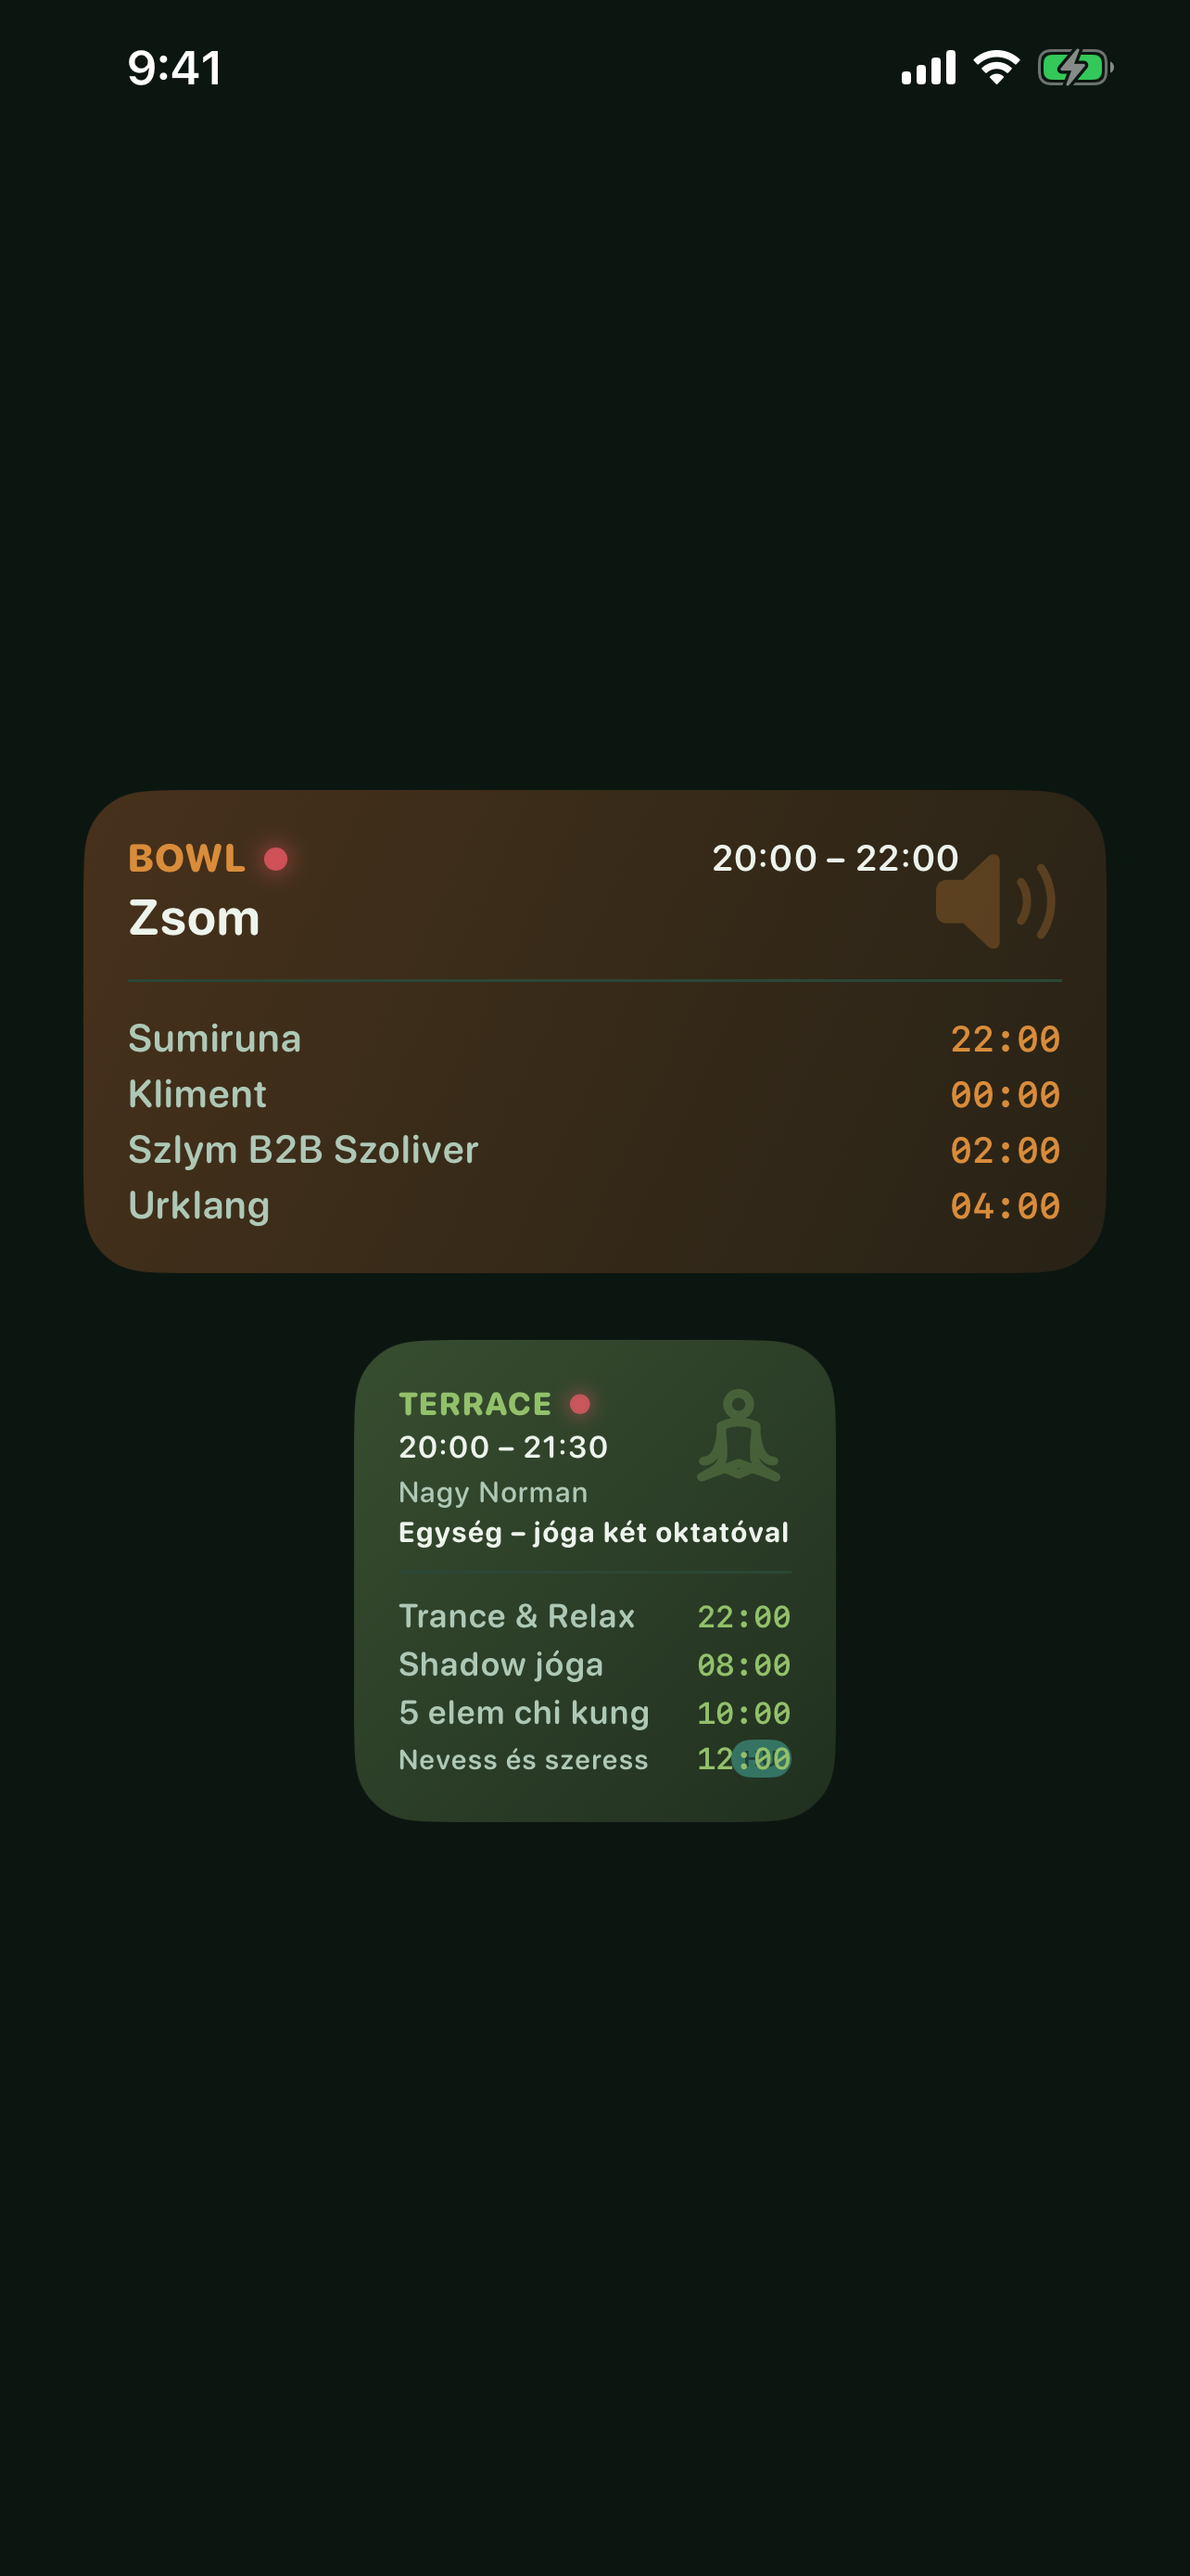
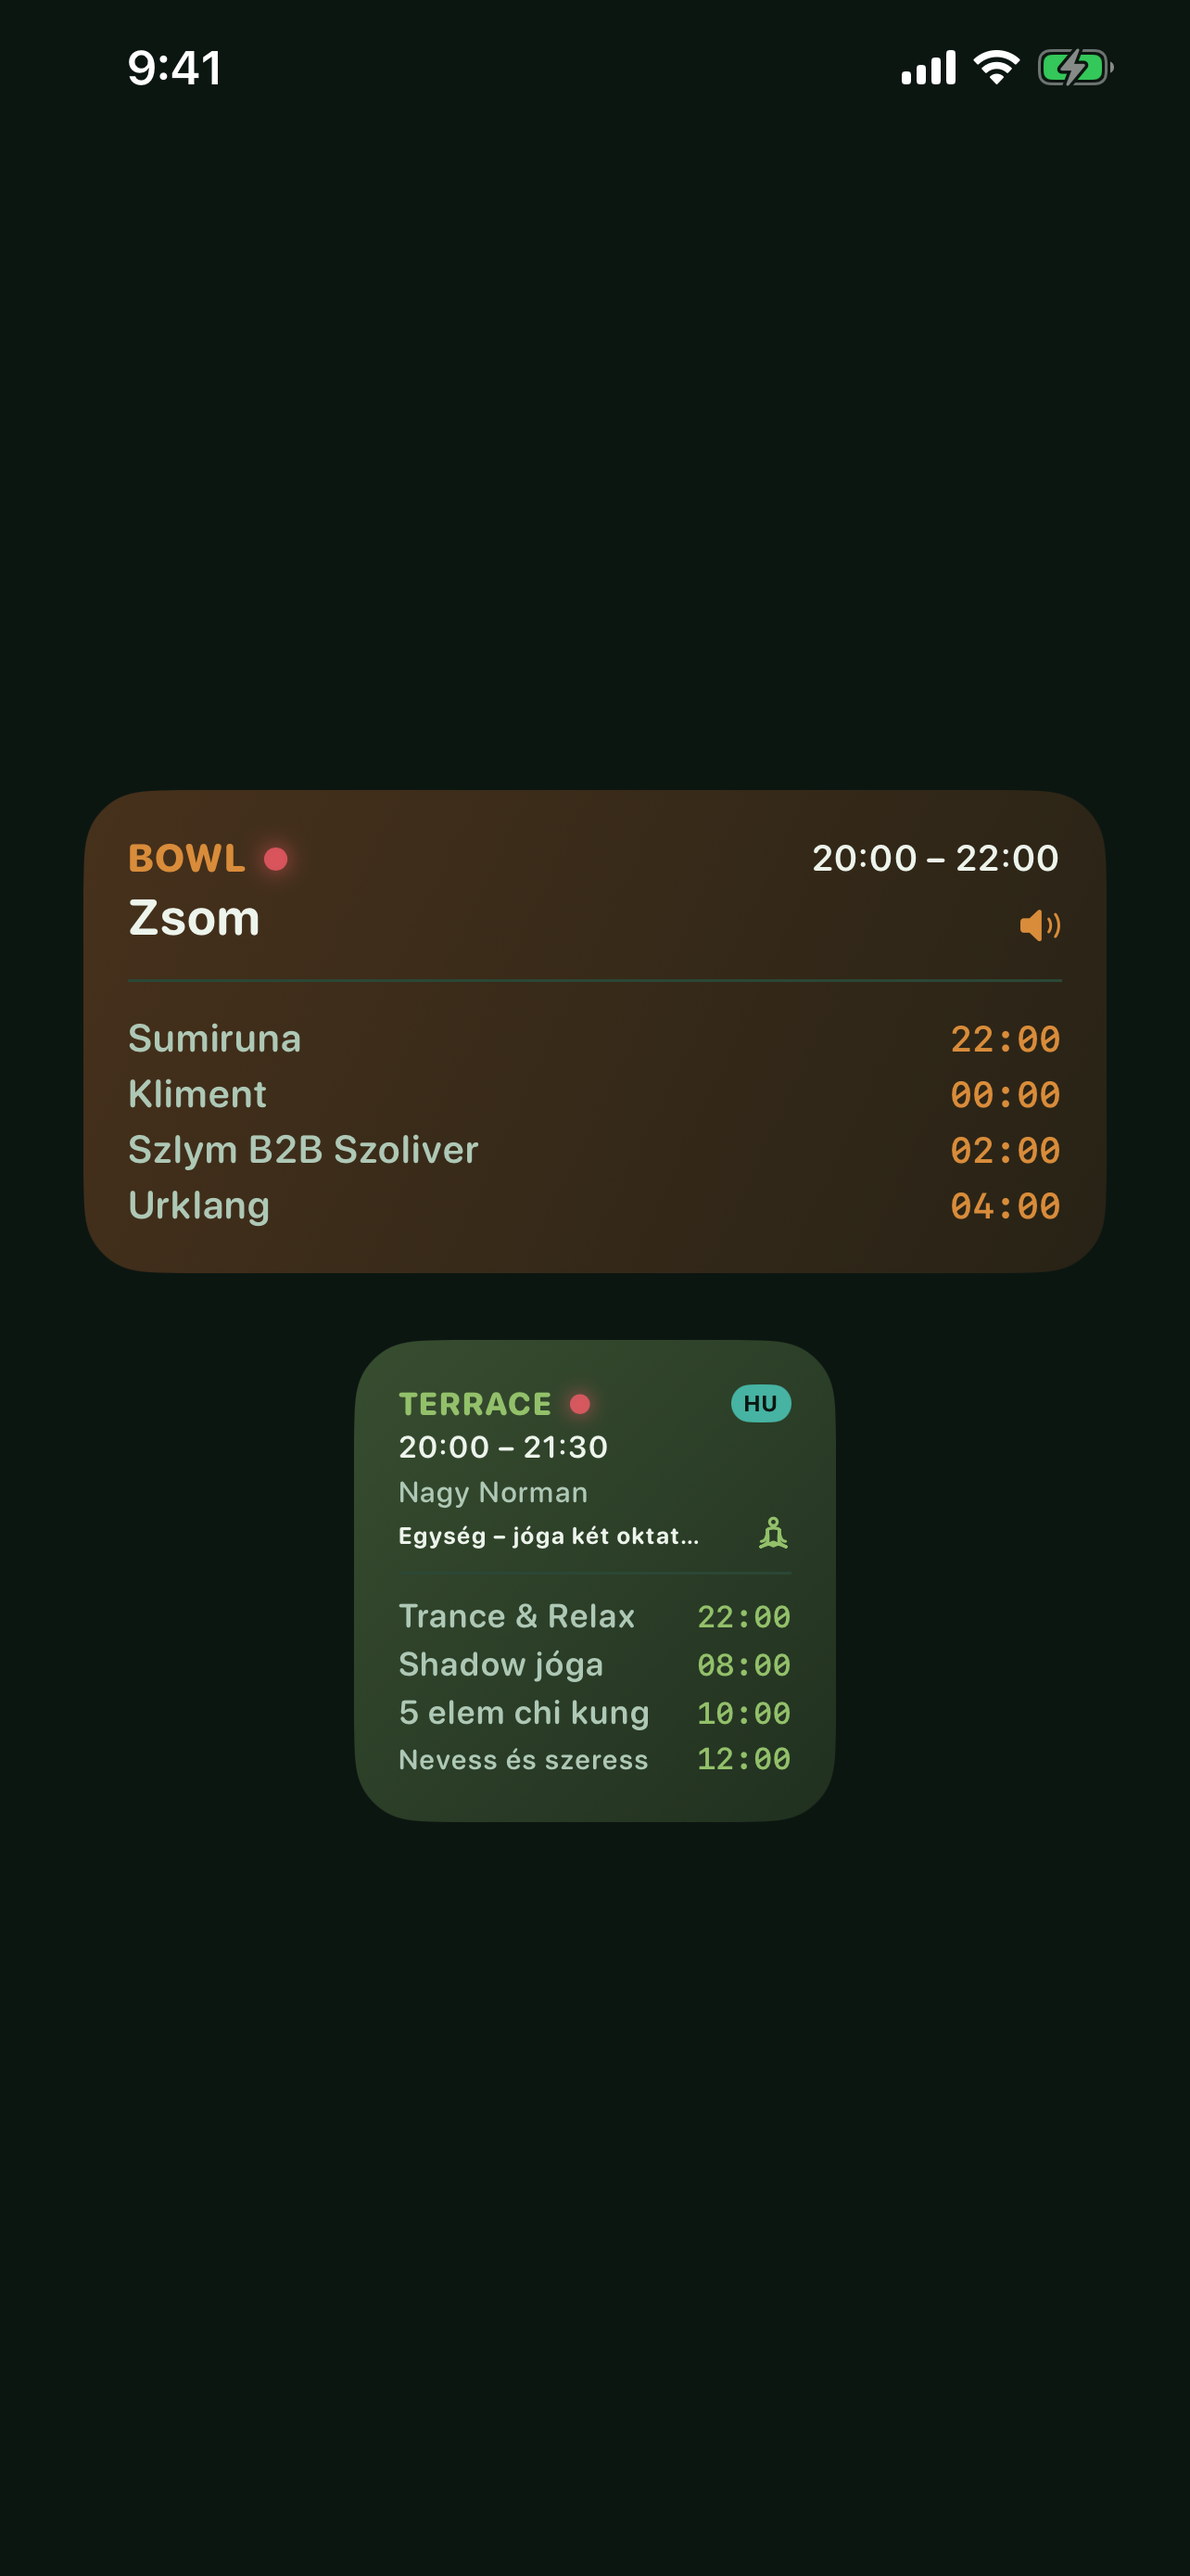
style(ios): move widget ornaments inline at full opacity
Medium: time range flush with the trailing edge of the header; kind icon
and HU/EN chip right-aligned on the title's last line. Small: chip
top-right in the header, kind icon on the title line. No watermark or
opacity ornaments anywhere; inline placement costs zero height so the
4-row up-next list still fits. Regenerate the 09-widgets store shots.

Changed region(s): [[0.3427, 0.5263, 0.6854, 0.6192], [0.5919, 0.3096, 0.9034, 0.3715], [0.6231, 0.6501, 0.6542, 0.712]]

diff --git a/apple/Sources/ManasKit/HomeWidgetCard.swift b/apple/Sources/ManasKit/HomeWidgetCard.swift
@@ -21,15 +21,17 @@ private struct Metrics {
     let nextTitle: CGFloat, nextTime: CGFloat
     let icon: CGFloat, chip: CGFloat, titleLines: Int
     /// The medium card is wide enough to put the time range beside the stage
-    /// name (like the watch); the small square gives it its own line.
+    /// name (like the watch) and the kind icon + chip on the title's line; the
+    /// small square stacks them instead (time under the header, chip in the
+    /// header, icon just above the rule).
     let timeInHeader: Bool
 
     static let small = Metrics(stage: 12, time: 11, artist: 11, title: 14,
                                nextTitle: 12, nextTime: 11,
-                               icon: 38, chip: 8, titleLines: 2, timeInHeader: false)
+                               icon: 13, chip: 8, titleLines: 2, timeInHeader: false)
     static let medium = Metrics(stage: 14, time: 13, artist: 13, title: 18,
                                 nextTitle: 14, nextTime: 13,
-                                icon: 48, chip: 10, titleLines: 1, timeInHeader: true)
+                                icon: 16, chip: 10, titleLines: 1, timeInHeader: true)
 }
 
 private extension NowEntry {
@@ -54,41 +56,23 @@ public struct HomeWidgetContent: View {
     }
 
     public var body: some View {
-        ZStack(alignment: .topTrailing) {
-            // Kind-icon watermark (top-right) + language chip (bottom-right) of
-            // the current act — translucent background ornaments, like the
-            // watch card; content may run over them.
-            if let event = entry.event {
-                KindIcon(event.kind, size: m.icon, color: entry.accentColor)
-                    .opacity(0.26)
-                    .widgetAccentable()
+        VStack(alignment: .leading, spacing: 2) {
+            nowBlock
+            if !entry.upcoming.isEmpty {
+                // The up-next list is bottom-anchored (last row flush with the
+                // card bottom) and gets the leftover space proposed first
+                // (layoutPriority) so it fits as many rows as it can; the two
+                // equal spacers then split what remains, centering the rule in
+                // the gap between the title line and the list.
+                Spacer(minLength: 3)
+                Rectangle().fill(Theme.line).frame(height: 1)
+                Spacer(minLength: 3)
+                upcomingList.layoutPriority(1)
+            } else {
+                Spacer(minLength: 0)
             }
-            if let event = entry.event, event.langAvailability != nil {
-                let chip = Theme.chip(event.langAvailability)
-                Text(chip.label).font(.system(size: m.chip, weight: .bold))
-                    .padding(.horizontal, m.chip * 0.55).padding(.vertical, 2)
-                    .background(chip.bg, in: Capsule()).foregroundStyle(chip.fg)
-                    .opacity(0.5)
-                    .frame(maxWidth: .infinity, maxHeight: .infinity, alignment: .bottomTrailing)
-            }
-            VStack(alignment: .leading, spacing: 2) {
-                nowBlock
-                if !entry.upcoming.isEmpty {
-                    // The up-next list is bottom-anchored (last row flush with
-                    // the card bottom) and gets the leftover space proposed
-                    // first (layoutPriority) so it fits as many rows as it can;
-                    // the two equal spacers then split what remains, centering
-                    // the rule in the gap between the act name and the list.
-                    Spacer(minLength: 3)
-                    Rectangle().fill(Theme.line).frame(height: 1)
-                    Spacer(minLength: 3)
-                    upcomingList.layoutPriority(1)
-                } else {
-                    Spacer(minLength: 0)
-                }
-            }
-            .frame(maxWidth: .infinity, alignment: .leading)
         }
+        .frame(maxWidth: .infinity, alignment: .leading)
     }
 
     // MARK: "Most" — the watch card's content
@@ -108,10 +92,12 @@ public struct HomeWidgetContent: View {
                     .symbolEffect(.pulse, options: .repeating, isActive: true)
             }
             Spacer(minLength: 4)
-            // Inset from the trailing edge so the time doesn't sit on the
-            // watermark that lives in the top-right corner.
-            if m.timeInHeader, let event = entry.event {
-                timeRange(event).padding(.trailing, m.icon * 0.75)
+            if m.timeInHeader {
+                // Medium: time range flush with the trailing edge.
+                if let event = entry.event { timeRange(event) }
+            } else {
+                // Small: language chip in the top-right corner.
+                langChip
             }
         }
         if !m.timeInHeader, let event = entry.event { timeRange(event) }
@@ -122,10 +108,34 @@ public struct HomeWidgetContent: View {
                 .lineLimit(1).minimumScaleFactor(0.7)
                 .padding(.top, 1)
         }
+        // The kind icon (both sizes) and the language chip (medium; small has
+        // it in the header) sit right-aligned on the title's last line — the
+        // lowest content line above the rule, at zero extra height so the
+        // 4-row up-next list still fits.
+        HStack(alignment: .bottom, spacing: 6) {
+            titleText
+            Spacer(minLength: 4)
+            if let event = entry.event {
+                KindIcon(event.kind, size: m.icon, color: entry.accentColor)
+            }
+            if m.timeInHeader { langChip }
+        }
+    }
+
+    private var titleText: some View {
         Text(entry.actText)
             .font(.system(size: m.title, weight: .bold, design: .rounded))
             .foregroundStyle(entry.event == nil ? Theme.creamDim : Theme.cream)
             .lineLimit(m.titleLines).minimumScaleFactor(0.6)
+    }
+
+    @ViewBuilder private var langChip: some View {
+        if let event = entry.event, event.langAvailability != nil {
+            let chip = Theme.chip(event.langAvailability)
+            Text(chip.label).font(.system(size: m.chip, weight: .bold))
+                .padding(.horizontal, m.chip * 0.55).padding(.vertical, 2)
+                .background(chip.bg, in: Capsule()).foregroundStyle(chip.fg)
+        }
     }
 
     private func timeRange(_ event: EventDTO) -> some View {
